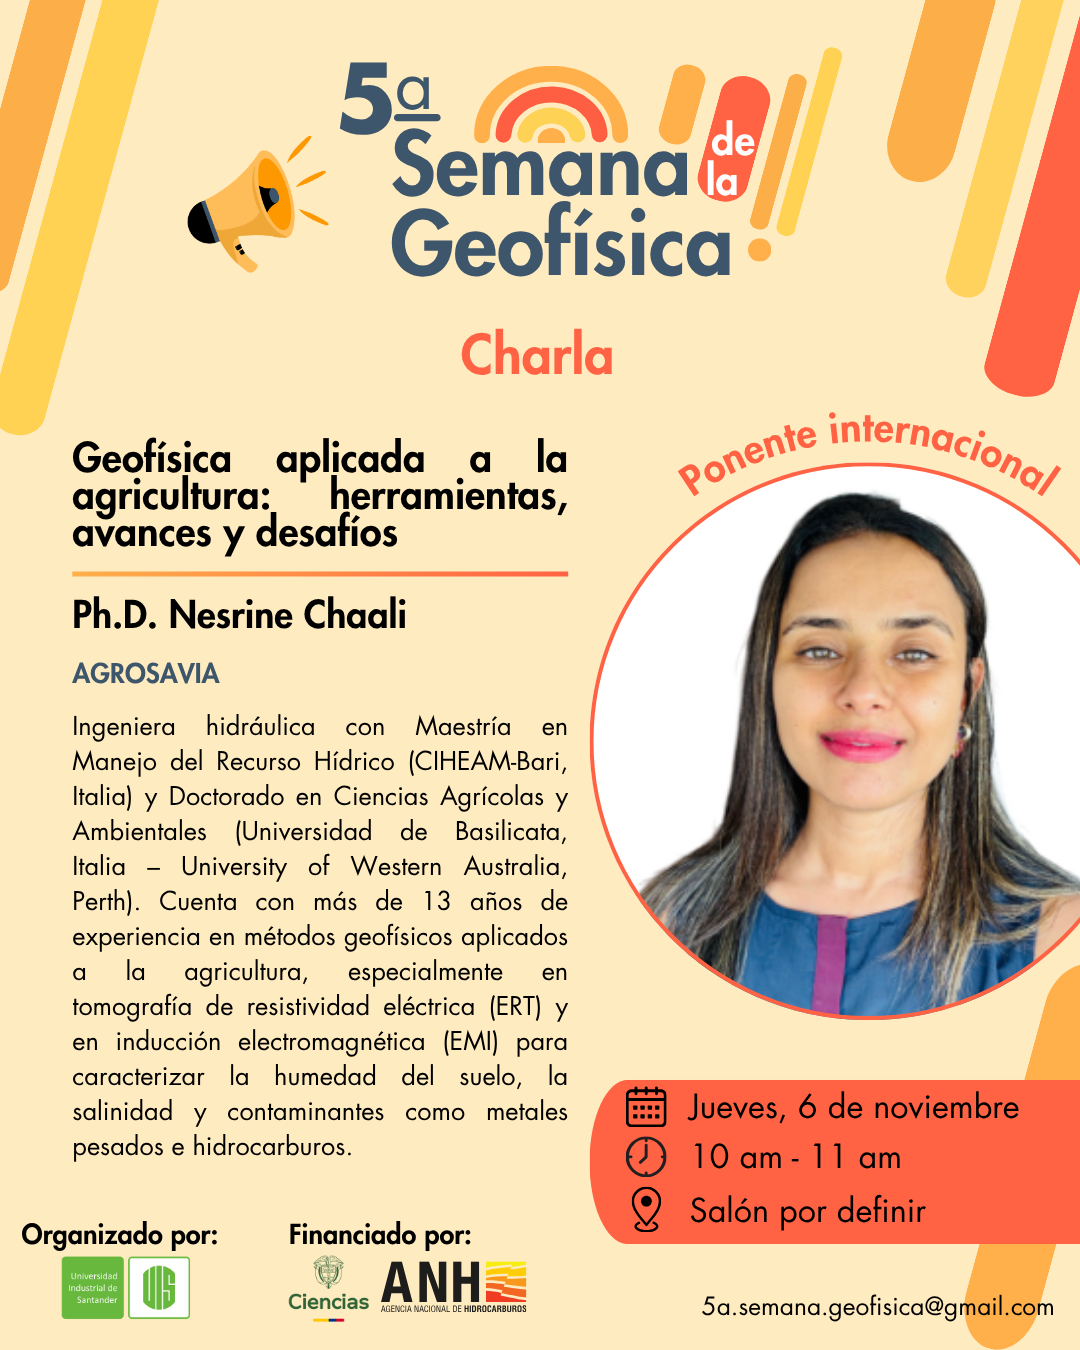
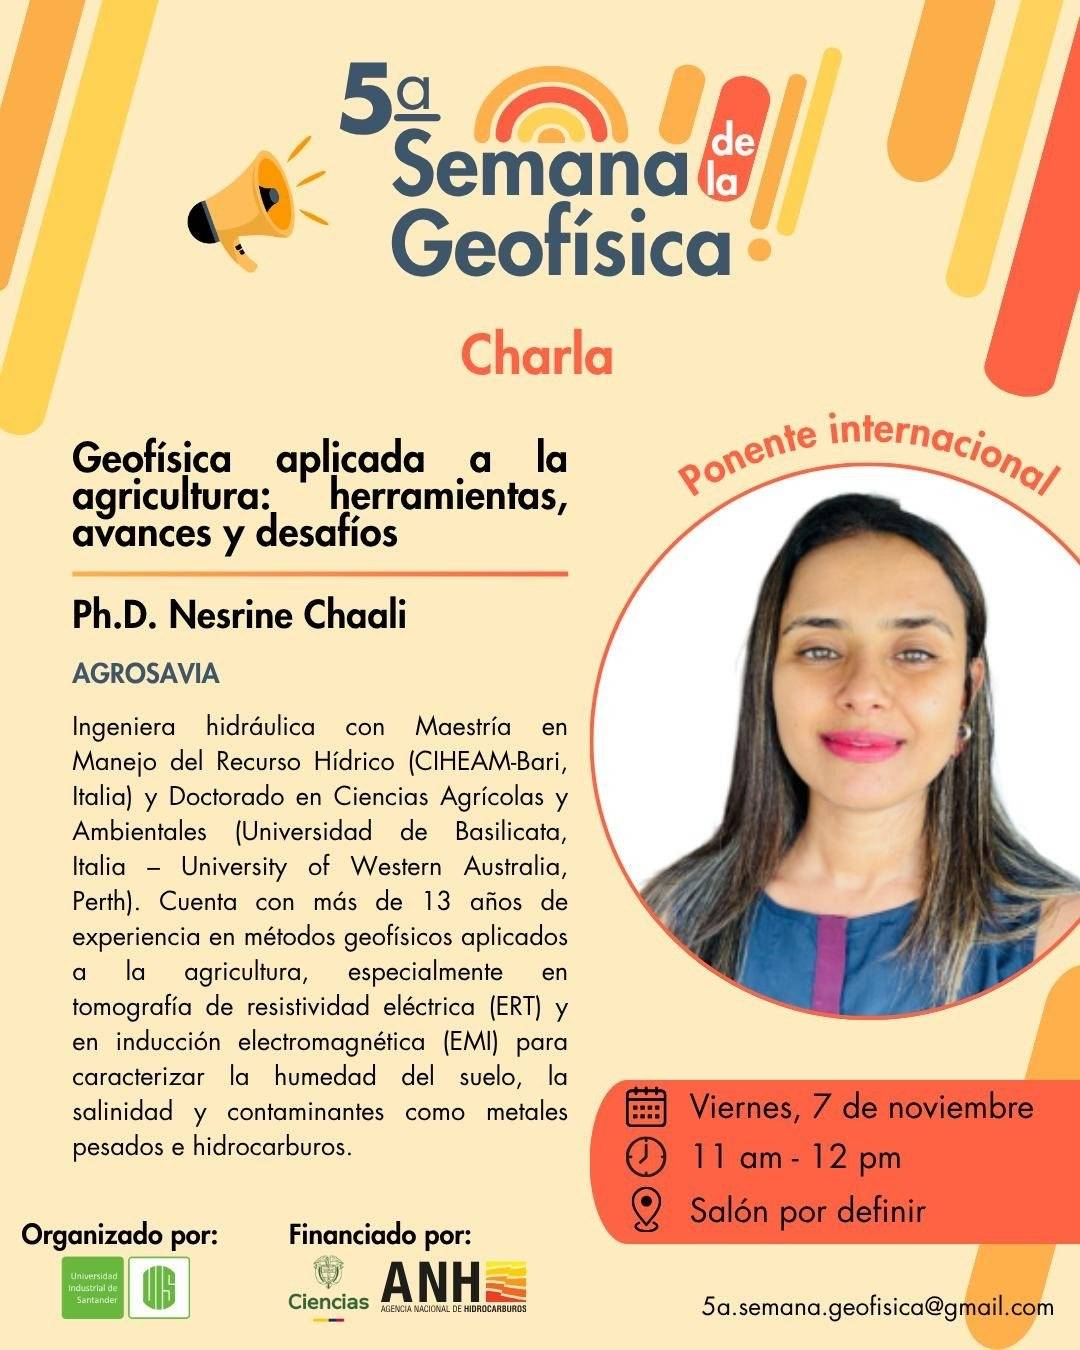
neuva charla

diff --git a/index.html b/index.html
@@ -188,8 +188,8 @@
     </p>
 
     <p style="margin: 15px 0;">
-      🗓 Jueves 6 de noviembre<br>
-      ⏰ 10 am - 11 am<br>
+      🗓 Viernes 7 de noviembre<br>
+      ⏰ 11 am - 12 am<br>
       📍 Salón por definir
     </p>
 
@@ -270,6 +270,29 @@
   <div class="flyers-section">
     <div class="flyer-container">
       <img src="assets/curso_8.png" alt="Charla - 5° Semana de la Geofísica" class="flyer-image">
+    </div>
+  </div>
+
+  <div class="announcement" style="background-color: #f5f5f5; padding: 20px; border-radius: 10px; margin: 20px 0;">    
+    <p style="margin: 15px 0;">
+      <strong>🔹 GAIRA: Geología + Artificial Intelligence + Realidad Aumentada</strong><br>
+      👨🏫 Con el Geól. M.Sc. Sergio Andrés García
+    </p>
+
+    <p style="margin: 15px 0;">
+      🗓 Martes 4 de noviembre<br>
+      ⏰ 3 pm - 4 pm<br>
+      📍 Salón por definir
+    </p>
+
+    <p style="margin: 15px 0;">
+      💡 Descubre la integración de geología, inteligencia artificial y realidad aumentada 🚀
+    </p>
+  </div>
+
+  <div class="flyers-section">
+    <div class="flyer-container">
+      <img src="assets/charla_4.png" alt="Charla GAIRA - 5° Semana de la Geofísica" class="flyer-image">
     </div>
   </div>
 
